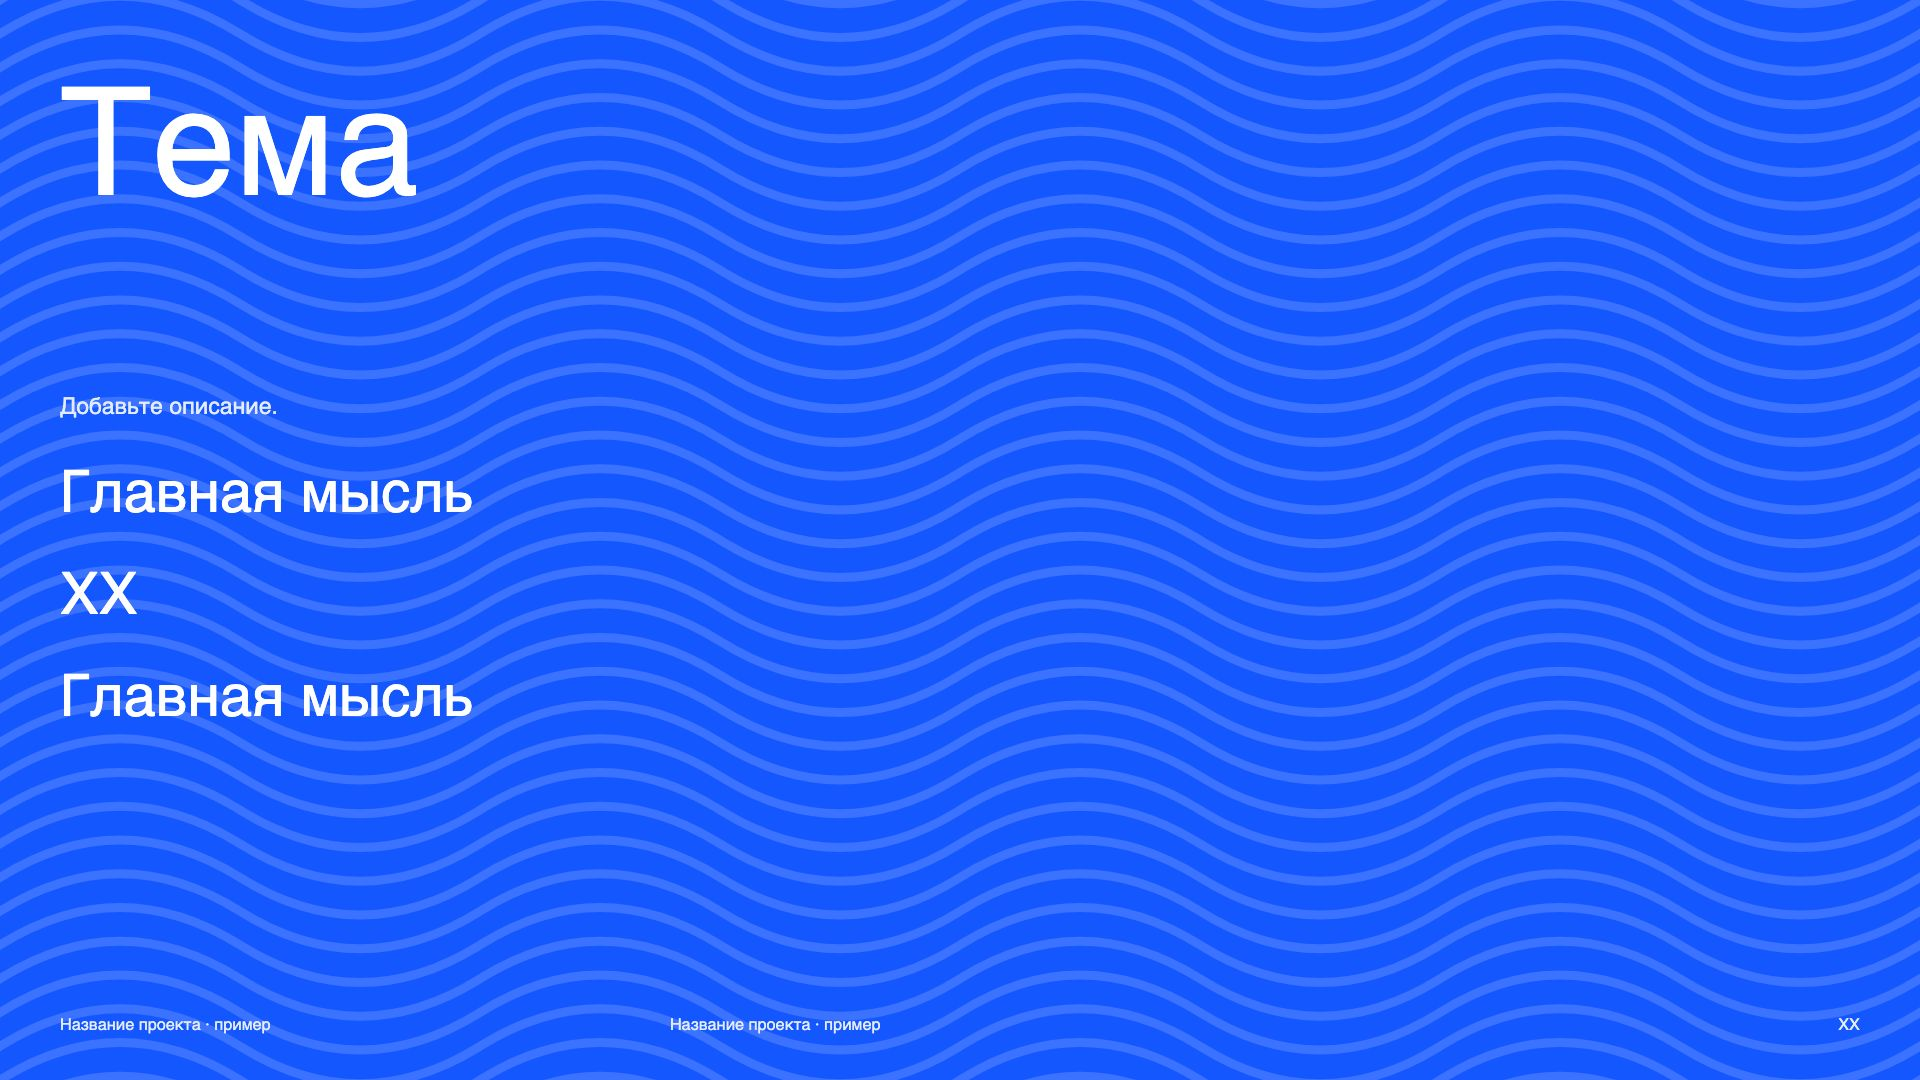
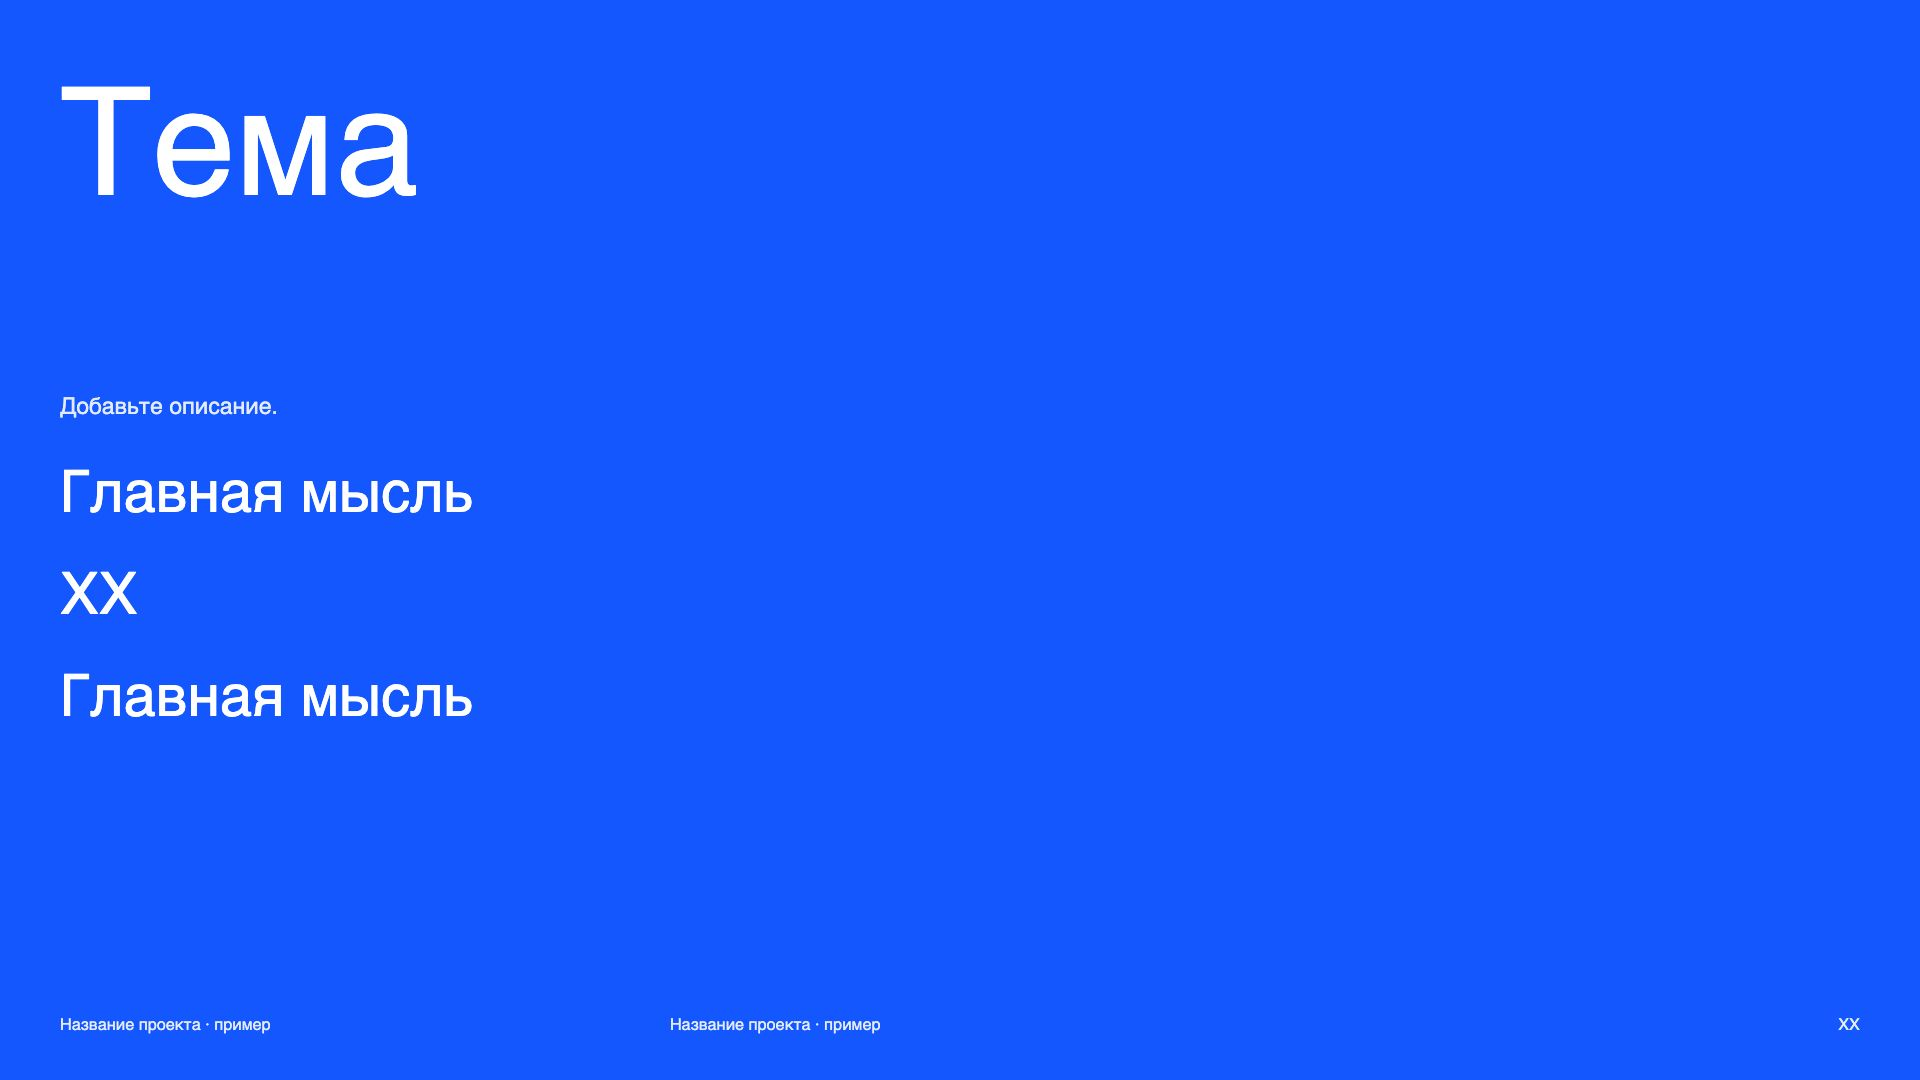
Remove patterns from selected layouts and add client styling guide

Changed region(s): [[0.0, 0.0, 1.0, 1.0]]

diff --git a/skills/redo-present/assets/templates/neutral/slides/026.html b/skills/redo-present/assets/templates/neutral/slides/026.html
@@ -1,6 +1,6 @@
 <!DOCTYPE html>
 
-<html lang="ru"><head><meta charset="utf-8"/><meta content="width=device-width,initial-scale=1" name="viewport"/><title>26 / Асимметрия слева — Neutral</title><link href="../styles.css" rel="stylesheet"/></head><body class="slide-page"><main aria-label="26 / Асимметрия слева" class="slide"><div class="layout-13"><div class="wave-pattern" style="color:var(--color-white)"></div>
+<html lang="ru"><head><meta charset="utf-8"/><meta content="width=device-width,initial-scale=1" name="viewport"/><title>26 / Асимметрия слева — Neutral</title><link href="../styles.css" rel="stylesheet"/></head><body class="slide-page"><main aria-label="26 / Асимметрия слева" class="slide"><div class="layout-13">
 <p class="layout-163" data-slot="text-01">Подпись</p>
 <p class="layout-164" data-slot="text-02">Заголовок</p>
 <div class="layout-165">

diff --git a/skills/redo-present/assets/templates/neutral/slides/002.html b/skills/redo-present/assets/templates/neutral/slides/002.html
@@ -1,6 +1,6 @@
 <!DOCTYPE html>
 
-<html lang="ru"><head><meta charset="utf-8"/><meta content="width=device-width,initial-scale=1" name="viewport"/><title>02 / Speaker / contacts — Neutral</title><link href="../styles.css" rel="stylesheet"/></head><body class="slide-page"><main aria-label="02 / Speaker / contacts" class="slide"><div class="layout-13"><div class="wave-pattern" style="color:var(--color-white)"></div>
+<html lang="ru"><head><meta charset="utf-8"/><meta content="width=device-width,initial-scale=1" name="viewport"/><title>02 / Speaker / contacts — Neutral</title><link href="../styles.css" rel="stylesheet"/></head><body class="slide-page"><main aria-label="02 / Speaker / contacts" class="slide"><div class="layout-13">
 <p class="layout-14" data-slot="text-01">Главная мысль</p>
 <p class="layout-15" data-slot="text-02">Главная мысль</p>
 <p class="layout-16" data-slot="text-03">Подпись</p>

diff --git a/skills/redo-present/assets/templates/neutral/slides/025.html b/skills/redo-present/assets/templates/neutral/slides/025.html
@@ -1,6 +1,6 @@
 <!DOCTYPE html>
 
-<html lang="ru"><head><meta charset="utf-8"/><meta content="width=device-width,initial-scale=1" name="viewport"/><title>25 / Контактный лист — Neutral</title><link href="../styles.css" rel="stylesheet"/></head><body class="slide-page"><main aria-label="25 / Контактный лист" class="slide"><div class="layout-13"><div class="wave-pattern" style="color:var(--color-white)"></div>
+<html lang="ru"><head><meta charset="utf-8"/><meta content="width=device-width,initial-scale=1" name="viewport"/><title>25 / Контактный лист — Neutral</title><link href="../styles.css" rel="stylesheet"/></head><body class="slide-page"><main aria-label="25 / Контактный лист" class="slide"><div class="layout-13">
 <div class="layout-159">
 <img alt="Синяя ткань" class="layout-3" data-slot="image-01" src="../assets/blue-fabric.png"/>
 </div>

diff --git a/skills/redo-present/assets/templates/neutral/slides/030.html b/skills/redo-present/assets/templates/neutral/slides/030.html
@@ -1,6 +1,6 @@
 <!DOCTYPE html>
 
-<html lang="ru"><head><meta charset="utf-8"/><meta content="width=device-width,initial-scale=1" name="viewport"/><title>30 / Пять тезисов — Neutral</title><link href="../styles.css" rel="stylesheet"/></head><body class="slide-page"><main aria-label="30 / Пять тезисов" class="slide"><div class="layout-13"><div class="wave-pattern" style="color:var(--color-white)"></div>
+<html lang="ru"><head><meta charset="utf-8"/><meta content="width=device-width,initial-scale=1" name="viewport"/><title>30 / Пять тезисов — Neutral</title><link href="../styles.css" rel="stylesheet"/></head><body class="slide-page"><main aria-label="30 / Пять тезисов" class="slide"><div class="layout-13">
 <p class="layout-163" data-slot="text-01">Подпись</p>
 <p class="layout-164" data-slot="text-02">Заголовок</p>
 <div class="layout-183"></div>

diff --git a/skills/redo-present/assets/templates/neutral/slides/031.html b/skills/redo-present/assets/templates/neutral/slides/031.html
@@ -1,6 +1,6 @@
 <!DOCTYPE html>
 
-<html lang="ru"><head><meta charset="utf-8"/><meta content="width=device-width,initial-scale=1" name="viewport"/><title>31 / Три принципа — Neutral</title><link href="../styles.css" rel="stylesheet"/></head><body class="slide-page"><main aria-label="31 / Три принципа" class="slide"><div class="layout-198"><div class="wave-pattern" style="color:var(--color-white)"></div>
+<html lang="ru"><head><meta charset="utf-8"/><meta content="width=device-width,initial-scale=1" name="viewport"/><title>31 / Три принципа — Neutral</title><link href="../styles.css" rel="stylesheet"/></head><body class="slide-page"><main aria-label="31 / Три принципа" class="slide"><div class="layout-198">
 <p class="layout-199" data-slot="text-01">Подпись</p>
 <p class="layout-200" data-slot="text-02">Заголовок</p>
 <div class="layout-201">

diff --git a/skills/redo-present/assets/templates/neutral/slides/021.html b/skills/redo-present/assets/templates/neutral/slides/021.html
@@ -1,6 +1,6 @@
 <!DOCTYPE html>
 
-<html lang="ru"><head><meta charset="utf-8"/><meta content="width=device-width,initial-scale=1" name="viewport"/><title>21 / Номер на фото — Neutral</title><link href="../styles.css" rel="stylesheet"/></head><body class="slide-page"><main aria-label="21 / Номер на фото" class="slide"><div class="layout-13"><div class="wave-pattern" style="color:var(--color-white)"></div>
+<html lang="ru"><head><meta charset="utf-8"/><meta content="width=device-width,initial-scale=1" name="viewport"/><title>21 / Номер на фото — Neutral</title><link href="../styles.css" rel="stylesheet"/></head><body class="slide-page"><main aria-label="21 / Номер на фото" class="slide"><div class="layout-13">
 <div class="layout-129">
 <img alt="Синяя ткань" class="layout-3" data-slot="image-01" src="../assets/blue-fabric.png"/>
 </div>

diff --git a/skills/redo-present/assets/templates/neutral/slides/018.html b/skills/redo-present/assets/templates/neutral/slides/018.html
@@ -1,6 +1,6 @@
 <!DOCTYPE html>
 
-<html lang="ru"><head><meta charset="utf-8"/><meta content="width=device-width,initial-scale=1" name="viewport"/><title>18 / Portrait quote — Neutral</title><link href="../styles.css" rel="stylesheet"/></head><body class="slide-page"><main aria-label="18 / Portrait quote" class="slide"><div class="layout-13"><div class="wave-pattern" style="color:var(--color-white)"></div>
+<html lang="ru"><head><meta charset="utf-8"/><meta content="width=device-width,initial-scale=1" name="viewport"/><title>18 / Portrait quote — Neutral</title><link href="../styles.css" rel="stylesheet"/></head><body class="slide-page"><main aria-label="18 / Portrait quote" class="slide"><div class="layout-13">
 <div class="layout-113">
 <img alt="Синяя ткань" class="layout-3" data-slot="image-01" src="../assets/blue-fabric.png"/>
 <div class="layout-48"></div>

diff --git a/skills/redo-present/assets/templates/neutral/slides/022.html b/skills/redo-present/assets/templates/neutral/slides/022.html
@@ -1,6 +1,6 @@
 <!DOCTYPE html>
 
-<html lang="ru"><head><meta charset="utf-8"/><meta content="width=device-width,initial-scale=1" name="viewport"/><title>22 / Крупный номер — Neutral</title><link href="../styles.css" rel="stylesheet"/></head><body class="slide-page"><main aria-label="22 / Крупный номер" class="slide"><div class="layout-134"><div class="wave-pattern" style="color:var(--color-white)"></div>
+<html lang="ru"><head><meta charset="utf-8"/><meta content="width=device-width,initial-scale=1" name="viewport"/><title>22 / Крупный номер — Neutral</title><link href="../styles.css" rel="stylesheet"/></head><body class="slide-page"><main aria-label="22 / Крупный номер" class="slide"><div class="layout-134">
 <p class="layout-135" data-slot="text-01">—</p>
 <div class="layout-136">
 <div class="layout-137">

diff --git a/skills/redo-present/assets/templates/neutral/slides/006.html b/skills/redo-present/assets/templates/neutral/slides/006.html
@@ -1,6 +1,6 @@
 <!DOCTYPE html>
 
-<html lang="ru"><head><meta charset="utf-8"/><meta content="width=device-width,initial-scale=1" name="viewport"/><title>06 / Statement — Neutral</title><link href="../styles.css" rel="stylesheet"/></head><body class="slide-page"><main aria-label="06 / Statement" class="slide"><div class="layout-1"><div class="wave-pattern" style="color:var(--color-blue)"></div>
+<html lang="ru"><head><meta charset="utf-8"/><meta content="width=device-width,initial-scale=1" name="viewport"/><title>06 / Statement — Neutral</title><link href="../styles.css" rel="stylesheet"/></head><body class="slide-page"><main aria-label="06 / Statement" class="slide"><div class="layout-1">
 <p class="layout-40" data-slot="text-01">Заголовок</p>
 
 <p class="layout-10" data-slot="text-02">Название проекта · пример</p>

diff --git a/skills/redo-present/assets/templates/neutral/slides/033.html b/skills/redo-present/assets/templates/neutral/slides/033.html
@@ -1,6 +1,6 @@
 <!DOCTYPE html>
 
-<html lang="ru"><head><meta charset="utf-8"/><meta content="width=device-width,initial-scale=1" name="viewport"/><title>33 / Contact — Neutral</title><link href="../styles.css" rel="stylesheet"/></head><body class="slide-page"><main aria-label="33 / Contact" class="slide"><div class="layout-225"><div class="wave-pattern" style="color:var(--color-white)"></div>
+<html lang="ru"><head><meta charset="utf-8"/><meta content="width=device-width,initial-scale=1" name="viewport"/><title>33 / Contact — Neutral</title><link href="../styles.css" rel="stylesheet"/></head><body class="slide-page"><main aria-label="33 / Contact" class="slide"><div class="layout-225">
 <p class="layout-226" data-slot="text-01">Тема</p>
 <div class="layout-227">
 <p class="layout-228" data-slot="text-02">Добавьте описание.</p>

diff --git a/skills/redo-present/assets/templates/neutral/slides/020.html b/skills/redo-present/assets/templates/neutral/slides/020.html
@@ -1,6 +1,6 @@
 <!DOCTYPE html>
 
-<html lang="ru"><head><meta charset="utf-8"/><meta content="width=device-width,initial-scale=1" name="viewport"/><title>20 / Final statement — Neutral</title><link href="../styles.css" rel="stylesheet"/></head><body class="slide-page"><main aria-label="20 / Final statement" class="slide"><div class="layout-1"><div class="wave-pattern" style="color:var(--color-blue)"></div>
+<html lang="ru"><head><meta charset="utf-8"/><meta content="width=device-width,initial-scale=1" name="viewport"/><title>20 / Final statement — Neutral</title><link href="../styles.css" rel="stylesheet"/></head><body class="slide-page"><main aria-label="20 / Final statement" class="slide"><div class="layout-1">
 <div class="layout-124">
 <div class="layout-125">
 

diff --git a/skills/redo-present/assets/templates/neutral/slides/019.html b/skills/redo-present/assets/templates/neutral/slides/019.html
@@ -1,6 +1,6 @@
 <!DOCTYPE html>
 
-<html lang="ru"><head><meta charset="utf-8"/><meta content="width=device-width,initial-scale=1" name="viewport"/><title>19 / Closing — Neutral</title><link href="../styles.css" rel="stylesheet"/></head><body class="slide-page"><main aria-label="19 / Closing" class="slide"><div class="layout-13"><div class="wave-pattern" style="color:var(--color-white)"></div>
+<html lang="ru"><head><meta charset="utf-8"/><meta content="width=device-width,initial-scale=1" name="viewport"/><title>19 / Closing — Neutral</title><link href="../styles.css" rel="stylesheet"/></head><body class="slide-page"><main aria-label="19 / Closing" class="slide"><div class="layout-13">
 <div class="layout-118">
 
 </div>
